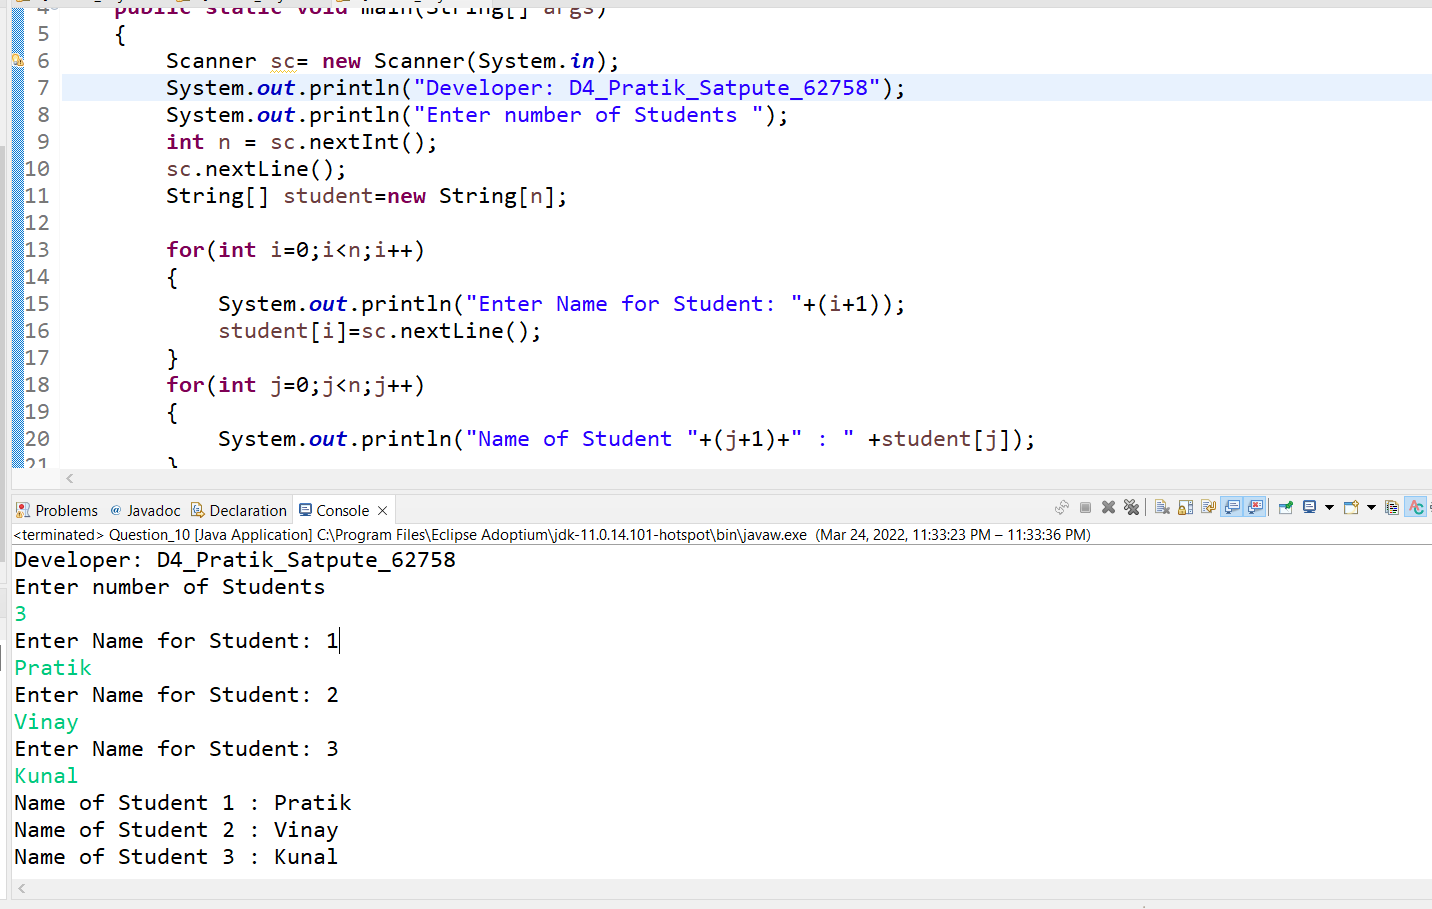
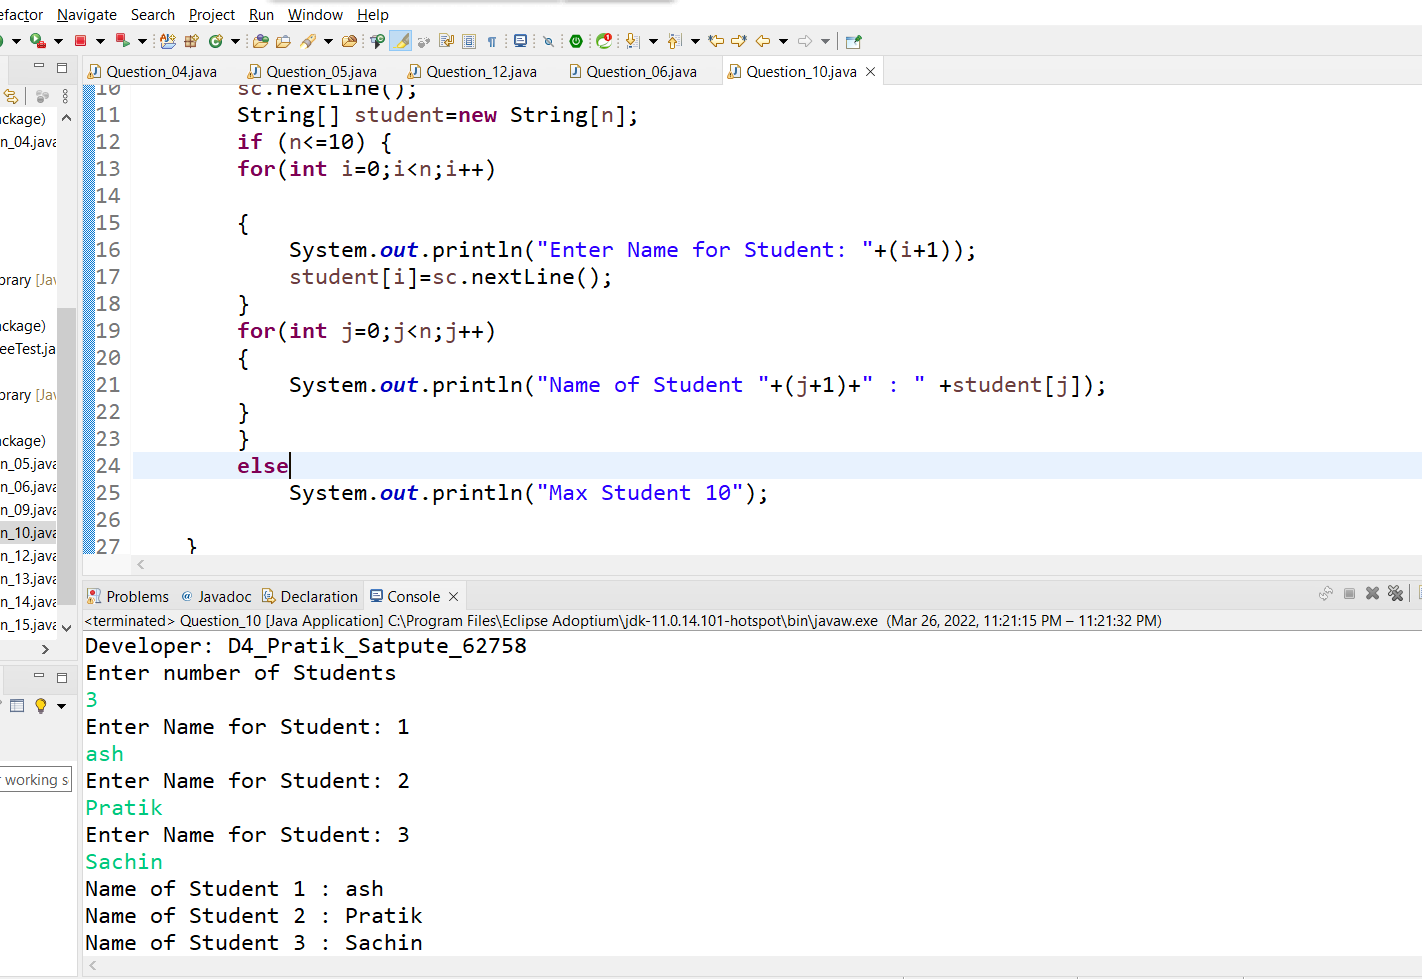
Question06 and reuploading Question10

diff --git a/Question_06.java b/Question_06.java
@@ -1,0 +1,73 @@
+import java.util.Scanner;
+
+public class Question_06 {
+	static Scanner sc=new Scanner(System.in);
+	public static void accept(int arr1[][])
+	{
+		for(int i=0;i<arr1.length;i++)
+		{
+			for(int j=0;j<arr1[i].length;j++)
+			{
+				arr1[i][j]=sc.nextInt();
+			}
+		}
+		
+	}
+	
+	public static void display(int arr1[][])
+	{
+		for(int i=0;i<arr1.length;i++)
+		{
+			for(int j=0;j<arr1[i].length;j++)
+			{
+				System.out.print(arr1[i][j]+" ");
+			}
+			System.out.println();
+		}
+		
+	}
+	public static void multiply(int arr[][],int arr1[][])
+	{
+		int mul[][]=new int[arr.length][arr1[0].length];
+		if(arr[0].length==arr1.length)
+		{
+			for(int i=0;i<arr.length;i++)
+			{
+			  for(int j=0;j<arr1[0].length;j++)
+			  {	int add=0;
+				for(int k=0;k<arr[0].length;k++)
+				{
+					add=add+(arr[i][k]*arr1[k][j]);
+					mul[i][j]=add;
+				}
+			  }	
+			}
+			
+		 display(mul);	
+		}
+		else
+			System.out.println("Multiplication of matrix can not be done");
+	}
+	
+	
+
+	public static void main(String[] args) {
+		System.out.println("Developer: D4_Pratik_Satpute_62758");
+		System.out.println("Enter Rows n Columns of First array");
+		int [][] arr1=new int[sc.nextInt()][sc.nextInt()];
+		System.out.println("Enter Rows n Columns of Second array");
+		int [][]arr2=new int[sc.nextInt()][sc.nextInt()];
+		System.out.println("Enter Elements for Arr1");
+		accept(arr1);
+		System.out.println("Enter Elements for Arr2");
+		accept(arr2);
+		System.out.println("Displaying First Array");
+		display(arr1);
+		System.out.println("Displaying Second Array");
+		display(arr2);
+		System.out.println("Multiplied Matrix");
+		System.out.println("Developer: D4_Pratik_Satpute_62758");
+		multiply(arr1,arr2);
+	}
+
+}

diff --git a/Question_10.java b/Question_10.java
@@ -4,13 +4,14 @@ public class Question_10 {
 	public static void main(String[] args)
 	{
 		Scanner sc= new Scanner(System.in);
-		System.out.println("Developer: D4_Pratik_Satpute_62758");
+		
 		System.out.println("Enter number of Students ");
 		int n = sc.nextInt();
 		sc.nextLine();
 		String[] student=new String[n];
+		if (n<=10) {
+		for(int i=0;i<n;i++)
 		
-		for(int i=0;i<n;i++) 
 		{
 			System.out.println("Enter Name for Student: "+(i+1));
 			student[i]=sc.nextLine();
@@ -19,7 +20,9 @@ public class Question_10 {
 		{
 			System.out.println("Name of Student "+(j+1)+" : " +student[j]);
 		}
-		
+		}
+		else
+			System.out.println("Max Student 10");
 		
 	}
 }
